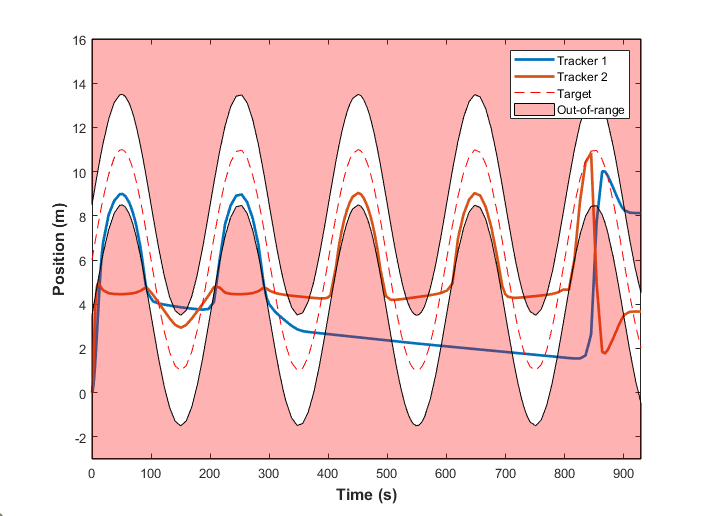
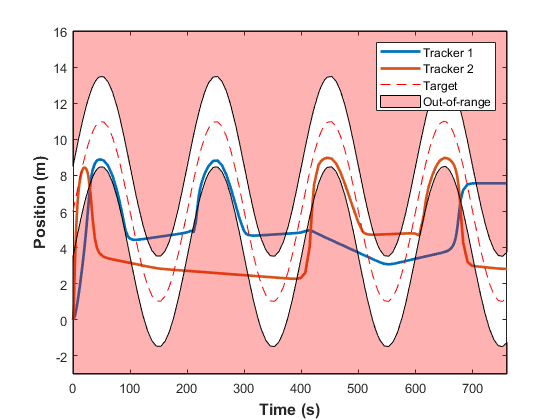
Double UAV with resting

diff --git a/OutOfRange/DoubleUAV/TrajectoryOptimForTrackingInRange.m b/OutOfRange/DoubleUAV/TrajectoryOptimForTrackingInRange.m
@@ -43,7 +43,7 @@ guess.t0 = 0;
 % Final time. Let tf_min=tf_max if tf is fixed.
 problem.time.tf_min=1;     
 problem.time.tf_max=3000; 
-guess.tf=500;
+guess.tf=600;
 
 % Parameters bounds. pl=< p <=pu
 problem.parameters.pl=[];
@@ -200,7 +200,7 @@ x_t = 5.*sin(2.*pi.*t./200)+6;
 
 f = -soft_max( -(x1-x_t).^2, -(x2 - x_t).^2, 1) - data.delta.^2;
 %k = data.penalty.values(data.penalty.i);
-stageCost = soft_max(f,0,2);
+stageCost = soft_max(f,0,3);
 %------------- END OF CODE --------------
 
 
@@ -225,7 +225,7 @@ function boundaryCost=E_unscaled(x0,xf,u0,uf,p,t0,tf,data)
 %
 %------------- BEGIN CODE --------------
 
-boundaryCost=-tf*10;
+boundaryCost=-10.*tf;
 
 %------------- END OF CODE --------------
 

diff --git a/OutOfRange/DoubleUAV/TrajectoryOptimForTrackingInRange_Dynamics_Internal.m b/OutOfRange/DoubleUAV/TrajectoryOptimForTrackingInRange_Dynamics_Internal.m
@@ -58,8 +58,8 @@ dx(:,4) = u2./m;
 % dx(:,6) = -0.1 - (0.283*u2).^2 - (0.566*v2).^2;
 
 % with rest periods
-dx(:,5) = -(1+tanh(10.*(x1 - data.xb))).*0.1 - (0.283*u1).^2 - (0.566*v1).^2;
-dx(:,6) = -(1+tanh(10.*(x2 - data.xb))).*0.1 - (0.283*u2).^2 - (0.566*v2).^2;
+dx(:,5) = -(1+tanh(40.*(x1 - data.xb))).*0.1 - (0.283*u1).^2 - (0.566*v1).^2;
+dx(:,6) = -(1+tanh(40.*(x2 - data.xb))).*0.1 - (0.283*u2).^2 - (0.566*v2).^2;
 
 % %Define Path constraints
 % g_eq(:,1)=g_eq1(x1,...,u1,...p,t);

diff --git a/OutOfRange/DoubleUAV/settings_TrajectoryOptimForTrackingInRange.m b/OutOfRange/DoubleUAV/settings_TrajectoryOptimForTrackingInRange.m
@@ -203,7 +203,7 @@ options.MRstrategy='aggressive';
 
 % Maximum number of mesh refinement iterations
 %---------------------------------------
-options.maxMRiter=1;
+options.maxMRiter=2;
 
 % Discountious Input
 %---------------------------------------
